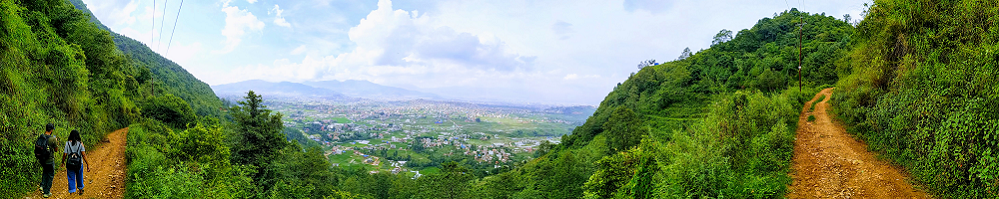
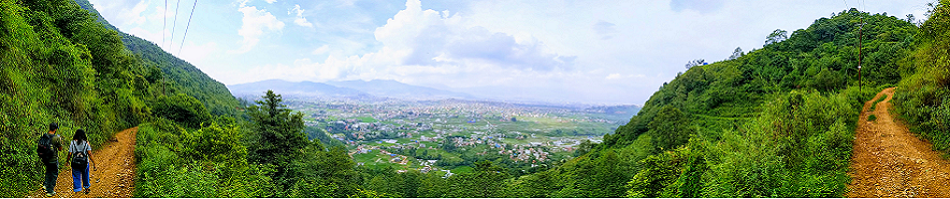
updateFigure10

diff --git a/widgets.html b/widgets.html
@@ -167,7 +167,7 @@
             <p class="text">
               This year was also about the field travel, and hikings. Hiked to the different mountins around the Kathmandu valley, also did short three day hike outside of Kathmandu valley. <br>
             </p>
-            <a class="image adaptive-image" style="background-image: url('img/figure10.png'); min-height: 200px;" href="img/figure10v2.png" target="_blank"></a>
+            <a class="image adaptive-image" style="background-image: url('img/figure10.png'); min-height: 200px;" href="img/figure10.png" target="_blank"></a>
             <p class="text">
               
             </p>
